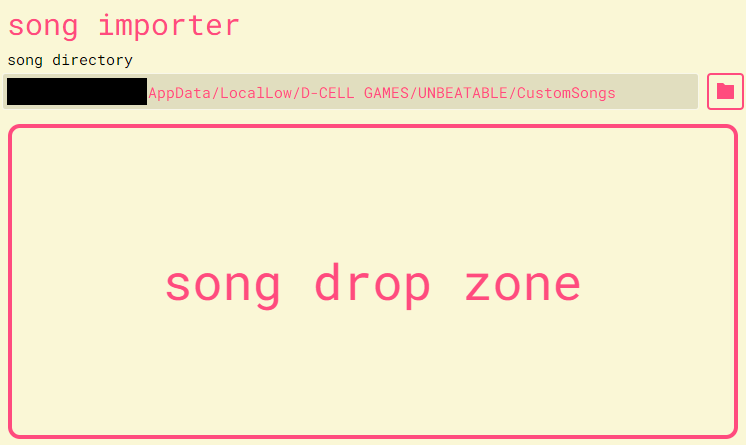
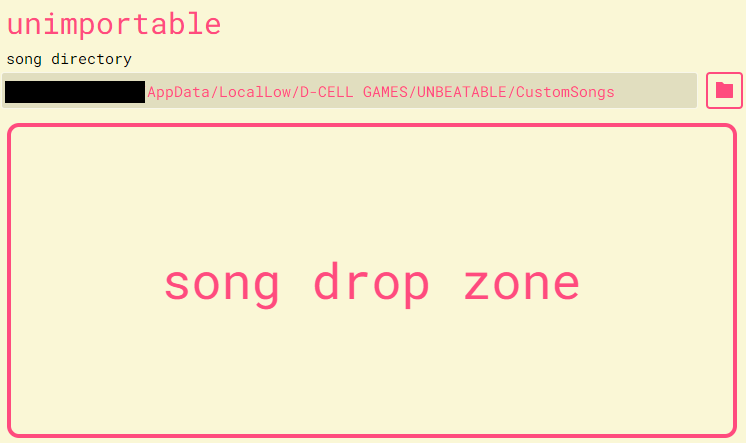
Updated README and output exe name; also added some extra error checks.

diff --git a/UNBEATABLESongImporter/ViewModels/MainWindowViewModel.cs b/UNBEATABLESongImporter/ViewModels/MainWindowViewModel.cs
@@ -236,6 +236,11 @@ public partial class MainWindowViewModel : ViewModelBase
         {
             Directory.CreateDirectory(outputFolderPath);
         }
+        else
+        {
+            SongDropZoneText = "could not import song:\noutput folder already exists";
+            return;
+        }
         
         foreach (var entry in files)
         {
@@ -243,6 +248,6 @@ public partial class MainWindowViewModel : ViewModelBase
             Console.WriteLine($"Extracting {entry.Name} to {destinationPath}");
             entry.ExtractToFile(destinationPath);
         }
-        SongDropZoneText = "song imported!";
+        SongDropZoneText = $"song imported with\n{difficulties.Count} difficulty(ies)";
     }
 }

diff --git a/README.md b/README.md
@@ -1,15 +1,17 @@
-# song importer
+# UNIMPORTABLE
 
-A tiny app for importing custom songs into the rhythm game [UNBEATABLE](https://unbeatablegame.com).
-Currently Windows only.
+**the program where appData is illegal and you do imports.**
 
-![if you're reading this then i screwed up](./ui-image.png "Song Importer UI")
+UNIMPORTABLE is a tiny app for importing custom songs into the rhythm game
+[UNBEATABLE](https://unbeatablegame.com). Currently Windows only.
+
+![if you're reading this then i screwed up](./ui-image.png "UNIMPORTABLE UI")
 
 ## Installation
-- Download `UNBEATABLESongImporter.zip` from the
+- Download `UNIMPORTABLE.zip` from the
   [latest release](https://github.com/JustASideQuestNPC/UNBEATABLESongImporter/releases/latest).
 - Unzip it anywhere.
-- Run `UNBEATABLESongImporter.exe`.
+- Run `UNIMPORTABLE.exe`.
 
 ## Usage
 **Note:** It might take a long time to launch the first time. I have no idea why.
@@ -23,4 +25,4 @@ file picker, or just drag the file from File Explorer onto the drop zone.
 
 If UNBEATABLE is currently running, the song won't appear until you back all the way out to the
 story mode menu and reenter arcade mode. If you still don't see it, make sure you're looking for the
-right difficulty, and that you have `-customsongs` in your Steam launch options.
+right difficulty and that you have `-customsongs` in your Steam launch options.